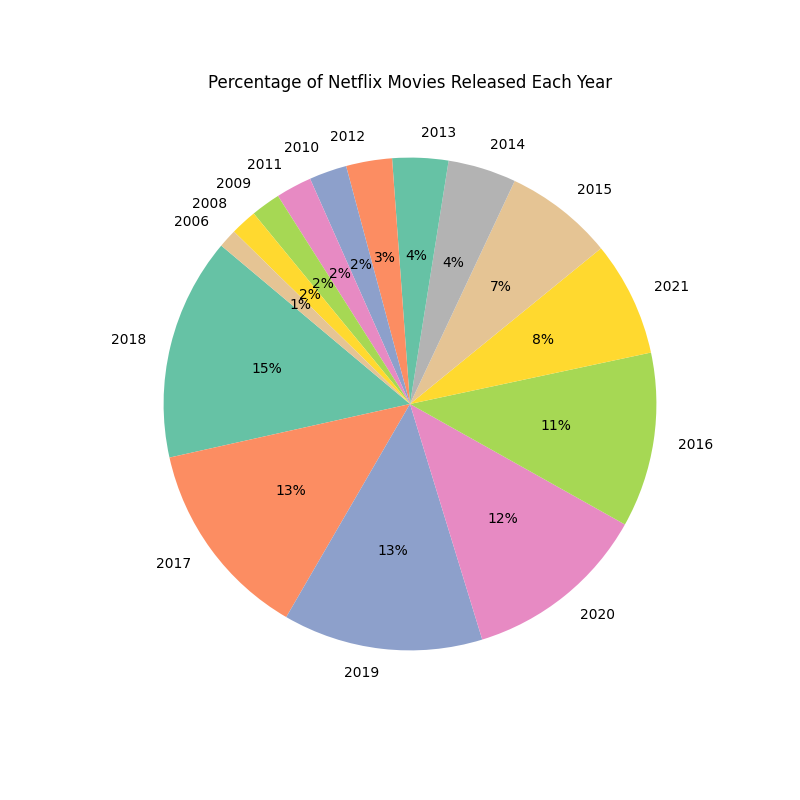
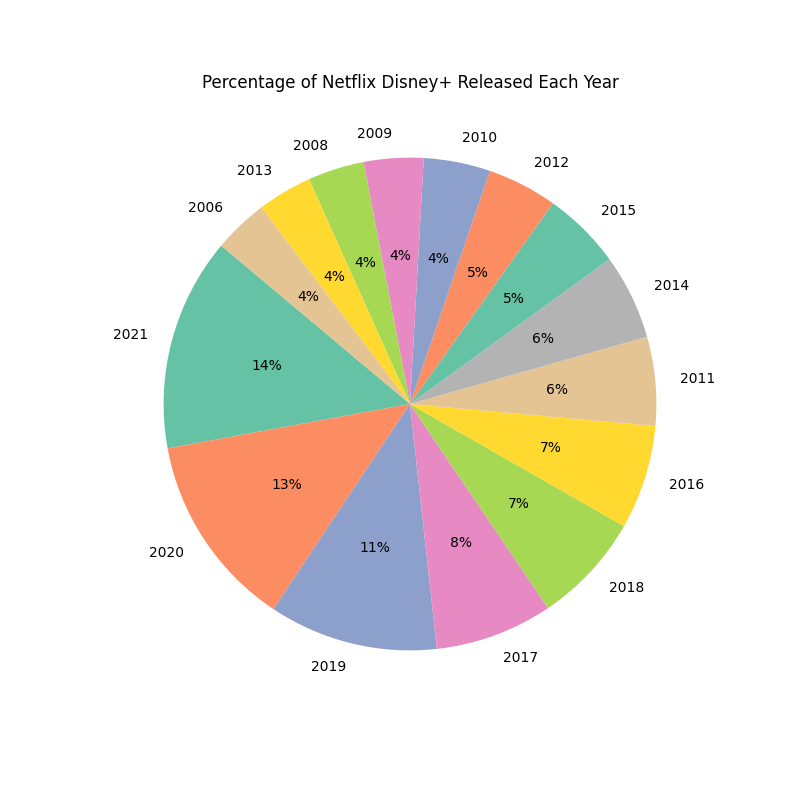
Added pie chart for the percentage of Disney+ movies released by year

diff --git a/src/eda_disney_plus.py b/src/eda_disney_plus.py
@@ -255,21 +255,41 @@ release_year_counts_sorted = release_year_counts.sort_values(ascending=False)
 # print(release_year_counts_sorted)
 
 
-# 繪製長條圖
-plt.figure(figsize=(12,10)) # 設置圖表大小
-sns.set(style="darkgrid") # 設置 Seaborn 的樣式為 "darkgrid"
-ax = sns.countplot(y="release_year", data=disney_plus_overall, palette="Set2", order=release_year_counts_sorted.index[0:15]) # 取前 15 名發行數量較多的年分，使用 Seaborn 繪製柱狀圖，顯示每年發布的電影數量，並按年份排序
-ax.set_title("Number of Movies Released by Disney+ Each Year", fontsize=16)  # 設置圖表標題
+# # 繪製長條圖
+# plt.figure(figsize=(12,10)) # 設置圖表大小
+# sns.set(style="darkgrid") # 設置 Seaborn 的樣式為 "darkgrid"
+# ax = sns.countplot(y="release_year", data=disney_plus_overall, palette="Set2", order=release_year_counts_sorted.index[0:15]) # 取前 15 名發行數量較多的年分，使用 Seaborn 繪製柱狀圖，顯示每年發布的電影數量，並按年份排序
+# ax.set_title("Number of Movies Released by Disney+ Each Year", fontsize=16)  # 設置圖表標題
 
-# 將統計數字顯示在長條圖上
-for container in ax.containers:  # 使用迴圈來依次訪問每根長條
-    ax.bar_label(container, fmt='%d', label_type='edge', padding=3)  # 在當前條形容器上添加數字標籤
-    # fmt='%d': 指定標籤的格式為整數
-    # label_type='edge': 將標籤顯示在長條的邊緣
-    # padding=3: 設定標籤與條形之間的間距為3個像素
+# # 將統計數字顯示在長條圖上
+# for container in ax.containers:  # 使用迴圈來依次訪問每根長條
+    # ax.bar_label(container, fmt='%d', label_type='edge', padding=3)  # 在當前條形容器上添加數字標籤
+    # # fmt='%d': 指定標籤的格式為整數
+    # # label_type='edge': 將標籤顯示在長條的邊緣
+    # # padding=3: 設定標籤與條形之間的間距為3個像素
+
+# # 保存圖片
+# plot_file = os.path.join('reports', 'collect_data', 'D_release_year_bar.png')  # 使用 os.path.join 函數組合成圖片的儲存路徑
+# os.makedirs(os.path.dirname(plot_file), exist_ok=True)  # 使用 os.makedirs 創建圖片儲存目錄（如果不存在的話），exist_ok=True 表示如果目錄已經存在則不報錯
+# plt.savefig(plot_file)  # 使用 plt.savefig 函數將當前的圖表保存到指定的文件路徑
+# plt.show()  # 顯示當前圖表，使其在螢幕上顯示出來，這對於交互式環境特別有用
+
+
+# 繪製圓餅圖
+plt.figure(figsize=(8,8))  # 設置圖表大小
+top_years = release_year_counts_sorted.head(15)  # 取電影發布前15名多的年份
+# top_years_sorted = top_years.sort_index()  # 依照年份排序 
+plt.pie(
+    top_years,  # 圓餅圖的數據，即每個部分的數量或比例
+    labels=top_years.index,  # 每個扇形的標籤，這裡是年份
+    autopct='%1.0f%%',  # 顯示每個扇形的百分比，格式為整數的百分比
+    colors=sns.color_palette("Set2", 15),  # 設定圓餅圖的顏色，這裡使用 Seaborn 的 "Set2" 調色板，包含15種顏色
+    startangle=140  # 設置圓餅圖的起始角度為140度，以調整圖形的顯示方向
+)
+plt.title('Percentage of Netflix Disney+ Released Each Year')  # 設置圓餅圖標題
 
 # 保存圖片
-plot_file = os.path.join('reports', 'collect_data', 'D_release_year_bar.png')  # 使用 os.path.join 函數組合成圖片的儲存路徑
+plot_file = os.path.join('reports', 'collect_data', 'N_release_year_pie.png')  # 使用 os.path.join 函數組合成圖片的儲存路徑
 os.makedirs(os.path.dirname(plot_file), exist_ok=True)  # 使用 os.makedirs 創建圖片儲存目錄（如果不存在的話），exist_ok=True 表示如果目錄已經存在則不報錯
 plt.savefig(plot_file)  # 使用 plt.savefig 函數將當前的圖表保存到指定的文件路徑
-plt.show()  # 顯示當前圖表，使其在螢幕上顯示出來，這對於交互式環境特別有用
+plt.show()  # 顯示圓餅圖
